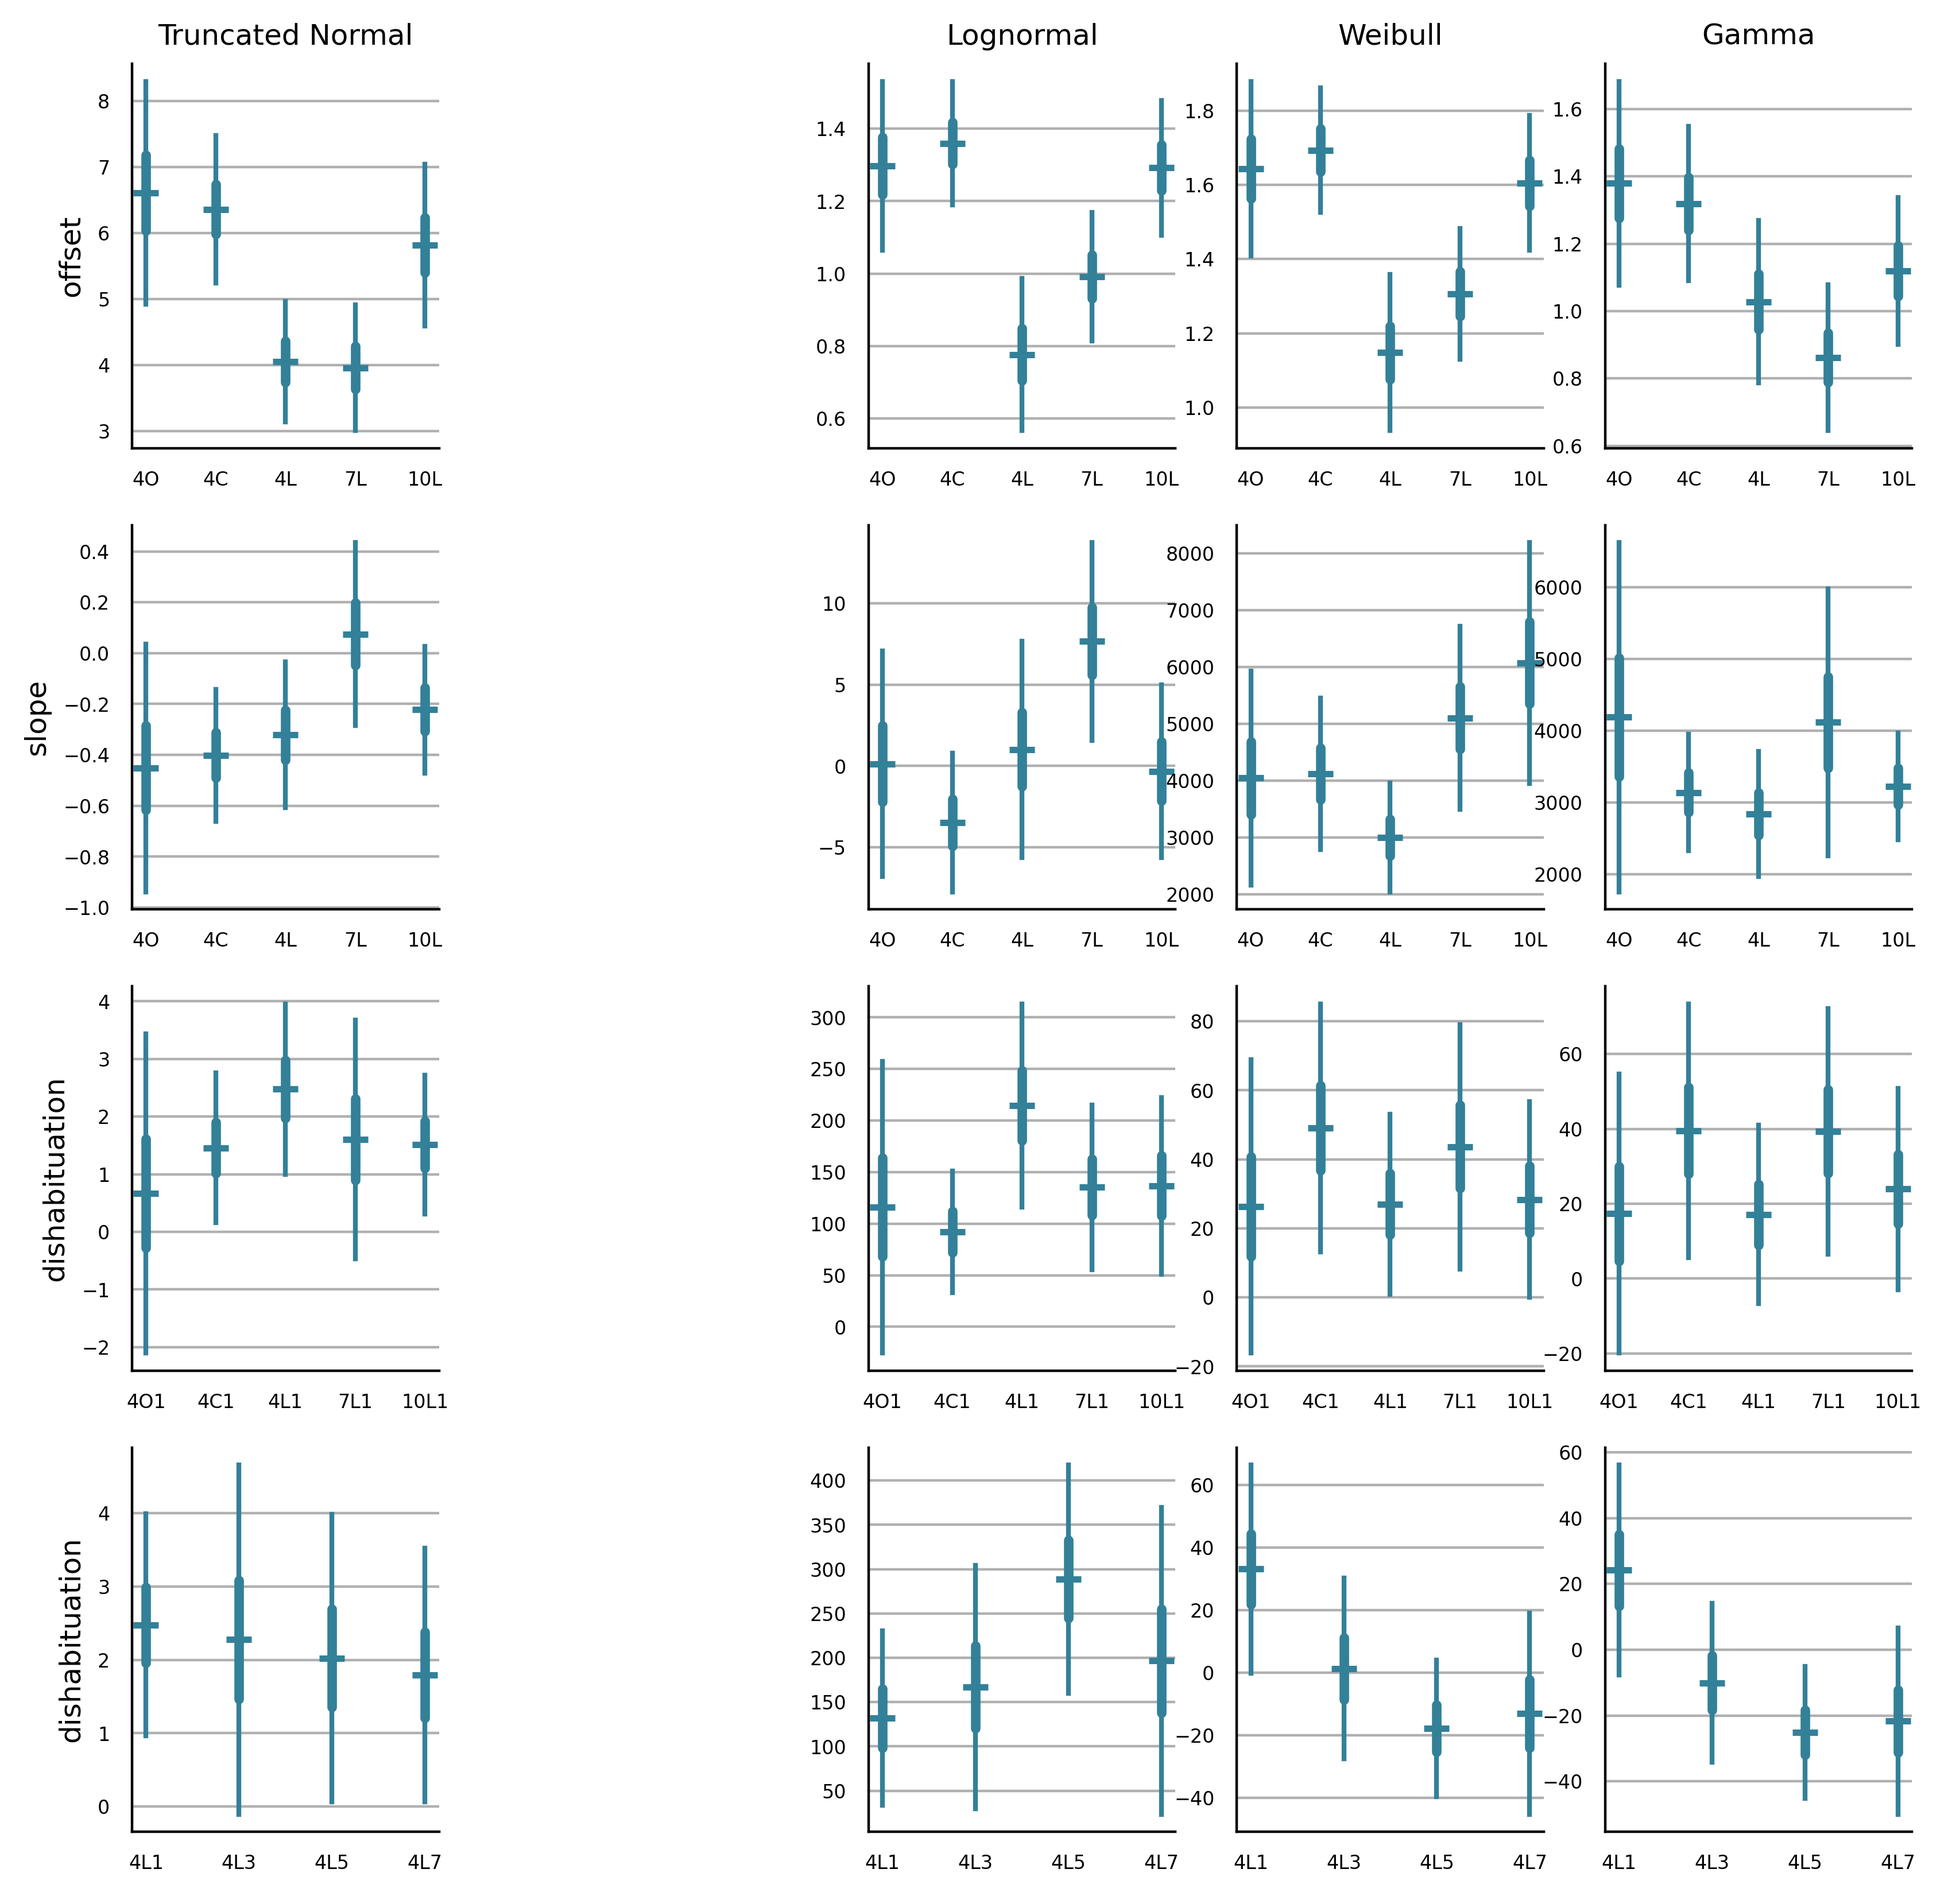
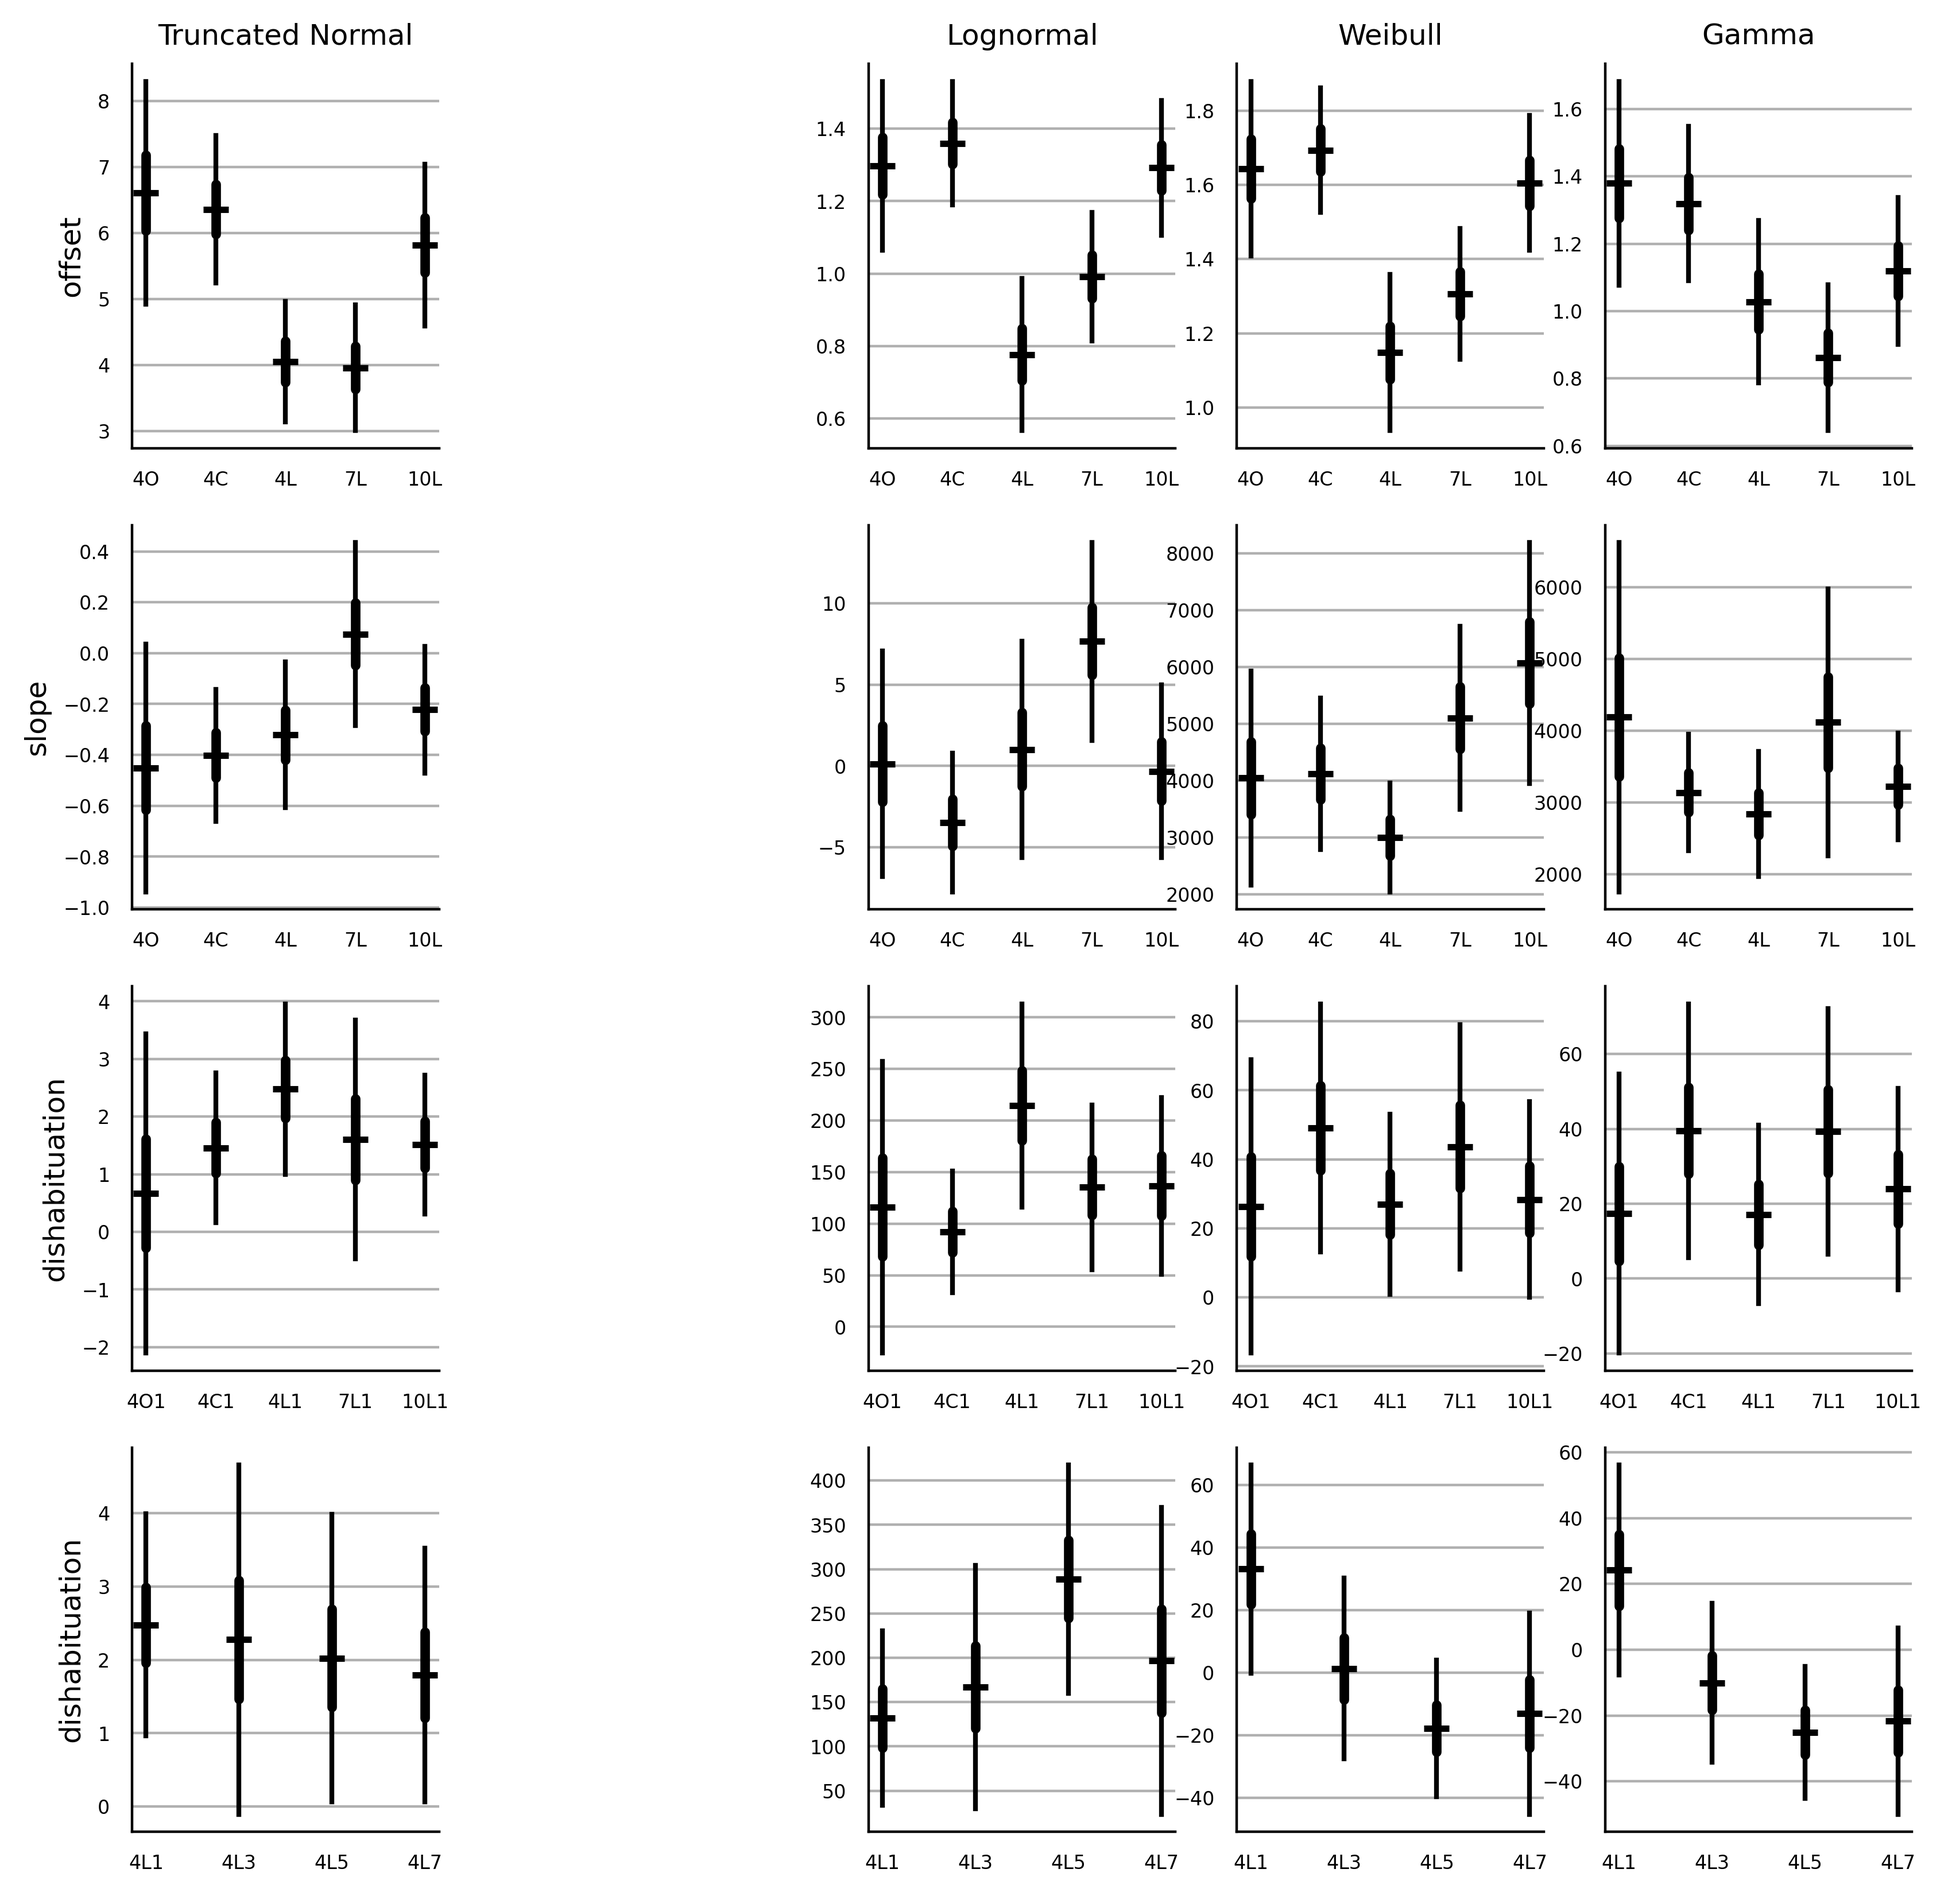
update licence

diff --git a/code/Analysis.py b/code/Analysis.py
@@ -665,15 +665,15 @@ def plotME(suf,avg=False,mask=[]):
                         else: tmp=sign*(z[xAll[sel,3]==5-h]-z[xAll[sel,3]==0].mean()+b)
                     else:tmp=sign*(z[xAll[sel,0]==2*h+1]-z[xAll[sel,0]==1].mean()+b)
                     if i>0 and nm[0]!='N' and nm[1]!='Q': tmp=(np.exp(tmp)-1)*100
-                    plotCIttest1(tmp,x=[h,7-h][int(i<3 and h>2)])
+                    plotCIttest1(tmp,x=[h,7-h][int(i<3 and h>2)],clr='k')
             else: 
                 k=['z0','zh','zd','zd'][i]
                 
                 tmp=w[k+'d'][:,0][:,np.newaxis]
                 if i==3: y=np.concatenate([tmp,w[k+'t']+tmp],axis=1)
                 else: y=np.concatenate([w[k+'d'][:,::-1],w[k+'c']+tmp],axis=1)
-                if i>0 and nm[0]!='N' : errorbar((np.exp(sign*y)-1)*100)
-                else: errorbar(sign*y)
+                if i>0 and nm[0]!='N' : errorbar((np.exp(sign*y)-1)*100,clr='k')
+                else: errorbar(sign*y,clr='k')
             
             if nm[1:]=='TP' and nm[0]!='N':
                 if i==1: plt.ylim([-16,2])
@@ -764,6 +764,10 @@ def printConverged():
         print(ndarray2latextable(D,decim=0) )   
 
 if __name__=='__main__':
+    plotME('TN',avg=True)
+    plotME('MN',avg=True)
+    plotME('QP',avg=False,mask=[1,3,4])
+    plotME('TP',avg=False);bla
     # get data
     info,Dres=loadData()
     yLT,xAll=preprocessData(info,Dres) 
@@ -788,7 +792,6 @@ if __name__=='__main__':
     unpooledAnova()
     plotME('TN',avg=True)
     plotME('TP',avg=False)
-    plotME('MN',avg=True)
     plotME('MN',avg=True)
     plotME('QP',avg=False,mask=[1,3,4])
     

diff --git a/README.md b/README.md
@@ -3,5 +3,5 @@ Infant habituation study conducted at Universität zu Köln by Matus Simkovic an
 
 # License
 
-The infant data included in folder `output` are licensed under the [Creative Commons Attribution-NonCommercial 4.0 International license](http://creativecommons.org/licenses/by-nc/4.0/deed.en_US). The programing code used to control the experiment and to analyze and display the data is included in folder `code` and is licensed under the [MIT license](http://opensource.org/licenses/mit-license.php).
+The infant data and the programing code used to control the experiment and to analyze and display the data are licensed under the [Creative Commons Attribution-NonCommercial 4.0 International license](http://creativecommons.org/licenses/by-nc/4.0/deed.en_US).
 
